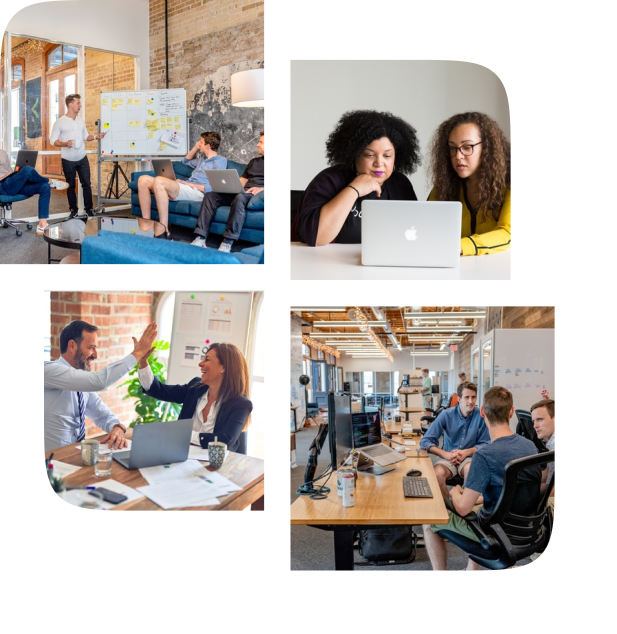
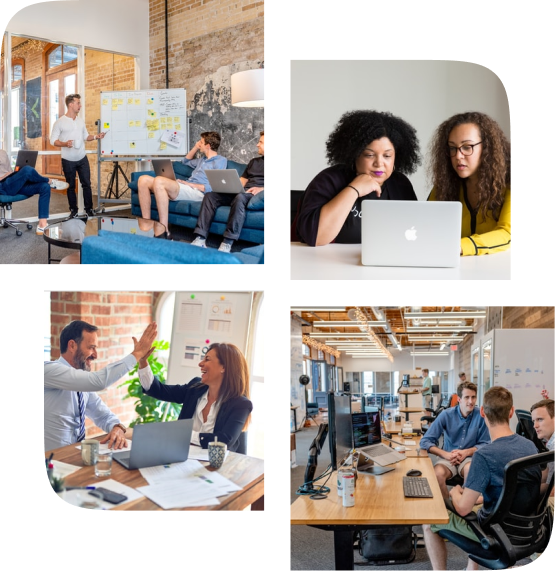
fixing

diff --git a/src/styles/css/main.min.css b/src/styles/css/main.min.css
@@ -1,1 +1,1 @@
-@import"https://fonts.googleapis.com/css2?family=Inter:wght@400;500;600;700&display=swap";*{vertical-align:baseline;font-weight:inherit;font-family:inherit;font-style:inherit;font-size:100%;border:0 none;outline:0;padding:0;margin:0;-webkit-box-sizing:border-box;box-sizing:border-box}/*! normalize.css v8.0.1 | MIT License | github.com/necolas/normalize.css */html{line-height:1.15;-webkit-text-size-adjust:100%}body{margin:0}main{display:block}h1{font-size:2em;margin:.67em 0}hr{-webkit-box-sizing:content-box;box-sizing:content-box;height:0;overflow:visible}pre{font-family:monospace,monospace;font-size:1em}a{background-color:rgba(0,0,0,0)}abbr[title]{border-bottom:none;text-decoration:underline;-webkit-text-decoration:underline dotted;text-decoration:underline dotted}b,strong{font-weight:bolder}code,kbd,samp{font-family:monospace,monospace;font-size:1em}small{font-size:80%}sub,sup{font-size:75%;line-height:0;position:relative;vertical-align:baseline}sub{bottom:-0.25em}sup{top:-0.5em}img{border-style:none}button,input,optgroup,select,textarea{font-family:inherit;font-size:100%;line-height:1.15;margin:0}button,input{overflow:visible}button,select{text-transform:none}button,[type=button],[type=reset],[type=submit]{-webkit-appearance:button}button::-moz-focus-inner,[type=button]::-moz-focus-inner,[type=reset]::-moz-focus-inner,[type=submit]::-moz-focus-inner{border-style:none;padding:0}button:-moz-focusring,[type=button]:-moz-focusring,[type=reset]:-moz-focusring,[type=submit]:-moz-focusring{outline:1px dotted ButtonText}fieldset{padding:.35em .75em .625em}legend{-webkit-box-sizing:border-box;box-sizing:border-box;color:inherit;display:table;max-width:100%;padding:0;white-space:normal}progress{vertical-align:baseline}textarea{overflow:auto}[type=checkbox],[type=radio]{-webkit-box-sizing:border-box;box-sizing:border-box;padding:0}[type=number]::-webkit-inner-spin-button,[type=number]::-webkit-outer-spin-button{height:auto}[type=search]{-webkit-appearance:textfield;outline-offset:-2px}[type=search]::-webkit-search-decoration{-webkit-appearance:none}::-webkit-file-upload-button{-webkit-appearance:button;font:inherit}details{display:block}summary{display:list-item}template{display:none}[hidden]{display:none}.main-button{background-color:#ffc93e;color:#172048;font-size:1.8rem;font-weight:500;padding:.8em 2em;border-radius:1.9em;-webkit-transition:.1s;transition:.1s}.main-button:hover{cursor:pointer;scale:1.05;-webkit-transition:.1s;transition:.1s}.main-button__icon{color:#172048;font-size:.8em;padding-left:.5em}@media(min-width: 768px){.main-button--baner{font-size:1.8vw}}.scroll-button{display:none}@media(min-width: 768px){.scroll-button{display:inline;position:relative;background-color:rgba(0,0,0,0);font-size:1.4rem;-webkit-transform:rotate(-90deg);transform:rotate(-90deg)}.scroll-button::before{position:absolute;z-index:-1;content:"";top:.1em;left:-1.4em;width:1.5rem;height:1.5rem;z-index:-1;background:url("../../assets/icons/scroll.svg") center no-repeat;background-size:contain;-webkit-transform:rotate(90deg);transform:rotate(90deg)}.scroll-button:hover{cursor:pointer;opacity:.5}}html{font-size:10px;font-family:inter;scroll-behavior:smooth}*{color:#fff}body{display:-webkit-box;display:-ms-flexbox;display:flex;-webkit-box-orient:vertical;-webkit-box-direction:normal;-ms-flex-direction:column;flex-direction:column;background-color:#0e1531}.footer{min-height:20rem}@font-face{font-family:"icomoon";src:url("../../scss/icons-font/fonts/icomoon.eot?9i6q3b");src:url("../../scss/icons-font/fonts/icomoon.eot?9i6q3b#iefix") format("embedded-opentype"),url("../../scss/icons-font/fonts/icomoon.ttf?9i6q3b") format("truetype"),url("../../scss/icons-font/fonts/icomoon.woff?9i6q3b") format("woff"),url("../../scss/icons-font/fonts/icomoon.svg?9i6q3b#icomoon") format("svg");font-weight:normal;font-style:normal;font-display:block}[class^=icon-]::before,[class*=" icon-"]::before{font-family:"icomoon" !important;font-style:normal;font-weight:normal;font-variant:normal;text-transform:none;line-height:1;-webkit-font-smoothing:antialiased;-moz-osx-font-smoothing:grayscale}.icon-drawing:before{content:""}.icon-monitor:before{content:""}.icon-pencil:before{content:""}.icon-paper:before{content:""}.icon-check-mark:before{content:""}.icon-arrow-left:before{content:""}.icon-arrow-right-up:before{content:""}.icon-chevron-right:before{content:""}.icon-dribbble:before{content:""}.icon-facebook:before{content:""}.icon-github:before{content:""}.icon-twitter:before{content:""}.icon-scroll:before{content:""}.icon-star:before{content:""}.main-container{margin:0 auto;padding:0 2.4rem;max-width:100%}@media(min-width: 768px){.main-container{max-width:114rem}}.color-shadow-1::before{position:absolute;z-index:-1;content:"";top:-100vw;left:-95vw;width:200vw;height:200vw;background:radial-gradient(circle at center, #312176 0%, transparent 40%, transparent 100%)}@media(min-width: 768px){.color-shadow-1::before{position:absolute;z-index:-1;content:"";top:-50vw;left:-45vw;width:100vw;height:100vw}.color-shadow-1::after{position:absolute;z-index:-1;content:"";top:-40%;left:10%;width:200rem;height:200rem;border-radius:50%;background:radial-gradient(circle at center, #411b61 0%, transparent 50%, transparent 100%)}.color-shadow-2::before{position:absolute;z-index:-1;content:"";top:45vw;left:-20vw;width:80rem;height:80rem;border-radius:50%;background:radial-gradient(circle at center, #182e57 0%, transparent 40%, transparent 100%)}.color-shadow-2::after{position:absolute;z-index:-1;content:"";top:35vw;left:55vw;width:100rem;height:100rem;border-radius:50%;background:radial-gradient(circle at center, #2c303e 0%, transparent 30%, transparent 100%)}}.wrapper{position:relative;min-height:330vh;overflow:hidden;background:url("../../assets/decor/ornament_sm.png") no-repeat}@media(min-width: 768px){.wrapper{background:url("../../assets/decor/ornament_lg.png") no-repeat}}.header__logo{width:7rem}@media(min-width: 768px){.header__logo{width:9.5rem}}.header__nav{display:none}@media(min-width: 768px){.header__nav{display:-webkit-box;display:-ms-flexbox;display:flex;-webkit-box-pack:justify;-ms-flex-pack:justify;justify-content:space-between;min-width:62%}.header__nav-item{text-decoration:none;font-size:1.8rem}.header__nav-item:hover{color:#ffc93e;text-shadow:#ffc93e 0 0 .5rem}.header__nav-item:active{color:#5a6378;text-shadow:none}}.header__burger .header__burger-pseudo::before,.header__burger .header__burger-label::before,.header__burger .header__burger-label::after{content:"";position:absolute;left:10%;width:80%;height:10%;background-color:#fff;-webkit-transition:.5s;transition:.5s}.header__burger .header__burger-pseudo,.header__burger .header__burger-label,.header__burger{width:2.6rem;height:2.6rem}.header__burger{position:relative}.header__burger .header__burger-checkbox{visibility:hidden}.header__burger .header__burger-checkbox:checked~.header__burger-label::after{-webkit-transform:rotate(45deg);transform:rotate(45deg);top:45%}.header__burger .header__burger-checkbox:checked~.header__burger-label::before{-webkit-transform:rotate(-45deg);transform:rotate(-45deg);top:45%}.header__burger .header__burger-checkbox:checked~.header__burger-pseudo::before{opacity:0}.header__burger .header__burger-label{position:absolute;top:0;right:0;z-index:10}.header__burger .header__burger-label::before,.header__burger .header__burger-label::after{top:70%}.header__burger .header__burger-label::after{top:20%}.header__burger .header__burger-label:hover{cursor:pointer}.header__burger .header__burger-pseudo{position:absolute;top:0;right:0;z-index:5}.header__burger .header__burger-pseudo::before{top:45%}.header{display:-webkit-box;display:-ms-flexbox;display:flex;-webkit-box-pack:justify;-ms-flex-pack:justify;justify-content:space-between;-webkit-box-align:center;-ms-flex-align:center;align-items:center;padding-top:2rem}.main-banner{text-align:center;padding-bottom:15vw}@media(min-width: 768px){.main-banner{padding-bottom:25vw}}.main-banner .main-banner__title{position:relative;left:.5em;display:inline-block;margin:.7em 0 .2em 0;font-weight:bold;font-size:17vw}@media(min-width: 768px){.main-banner .main-banner__title{font-size:10vw;left:0}}.main-banner .main-banner__title::before{position:absolute;z-index:-1;content:"";top:-0.3em;left:-1.4em;width:2em;height:2em;background:url("../../assets/decor/world_class.svg") center no-repeat;background-size:contain}.main-banner .main-banner__title::after{position:absolute;z-index:-1;content:"";top:.1em;left:-2.65em;width:8em;height:6em;background:url("../../assets/decor/line-sm.svg") center no-repeat;background-size:contain}@media(min-width: 768px){.main-banner .main-banner__title::after{position:absolute;z-index:-1;content:"";top:.1em;left:-0.94em;width:10em;height:5em;background:url("../../assets/decor/line-lg.svg") center no-repeat;background-size:contain}}.main-banner .main-banner__title2{position:relative;left:-0.7em}.main-banner .main-banner__title2::before{position:absolute;z-index:-1;content:"";top:-1.7em;left:3.6em;width:.4em;height:.4em;background:url("../../assets/decor/star_bgr.svg") center no-repeat;background-size:contain}@media(min-width: 1024px){.main-banner .main-banner__title2::before{top:-1.7em;left:5em}}.main-banner .main-banner__title2::after{position:absolute;z-index:-1;content:"";top:3.2em;left:3.3em;width:.4em;height:.4em;background:url("../../assets/decor/star_bgr.svg") center no-repeat;background-size:contain}@media(min-width: 768px){.main-banner .main-banner__title2::after{position:absolute;z-index:-1;content:"";top:-0.8em;left:-0.7em;width:.4em;height:.4em}}.main-banner .main-banner__container{display:-webkit-box;display:-ms-flexbox;display:flex;-webkit-box-orient:vertical;-webkit-box-direction:normal;-ms-flex-direction:column;flex-direction:column}.main-banner .main-banner__container .main-banner__text-container{position:relative;left:-1vw;-ms-flex-item-align:center;align-self:center;display:-webkit-box;display:-ms-flexbox;display:flex;-webkit-box-orient:vertical;-webkit-box-direction:normal;-ms-flex-direction:column;flex-direction:column;-webkit-box-align:baseline;-ms-flex-align:baseline;align-items:baseline;padding-bottom:5vw}@media(min-width: 768px){.main-banner .main-banner__container .main-banner__text-container{left:-7.5vw}}.main-banner .main-banner__container .main-banner__text-container .main-banner__subtitle{font-size:4.5vw;line-height:1.5em;font-weight:normal;width:70vw;text-align:left;margin:0 auto;padding-bottom:1em}@media(min-width: 768px){.main-banner .main-banner__container .main-banner__text-container .main-banner__subtitle{font-size:1.8vw;width:35vw}}.main-banner .main-banner__container .main-banner__figure-big{position:relative;margin:3rem auto;display:inline-block}@media(min-width: 768px){.main-banner .main-banner__container .main-banner__figure-big{position:absolute;top:23vw;right:7%}}.main-banner .main-banner__container .main-banner__figure-big .main-banner__img-big{width:85vw}@media(min-width: 768px){.main-banner .main-banner__container .main-banner__figure-big .main-banner__img-big{width:30vw}}.main-banner .main-banner__container .main-banner__figure-big .main-banner__play-video{position:absolute;right:15%;bottom:-13%;width:25vw;height:25vw;border-radius:50%;background:url(../../assets/buttons/play_video.svg) center no-repeat,-webkit-gradient(linear, left top, left bottom, color-stop(7%, #f0e9cd), to(#939498));background:url(../../assets/buttons/play_video.svg) center no-repeat,linear-gradient(to bottom, #f0e9cd 7%, #939498 100%);background-size:contain;-webkit-transition:.3s;transition:.3s}@media(min-width: 768px){.main-banner .main-banner__container .main-banner__figure-big .main-banner__play-video{width:10vw;height:10vw;bottom:-15%}}.main-banner .main-banner__container .main-banner__figure-big .main-banner__play-video:hover{cursor:pointer;-webkit-transform:scale(1.1);transform:scale(1.1);-webkit-transition:.3s;transition:.3s;-webkit-filter:brightness(1.1);filter:brightness(1.1)}.main-banner .main-banner__container .main-banner__figure-small{position:relative;display:-webkit-box;display:-ms-flexbox;display:flex}@media(min-width: 768px){.main-banner .main-banner__container .main-banner__figure-small{position:absolute;width:20vw;top:45vw;left:2%}}@media(min-width: 1024px){.main-banner .main-banner__container .main-banner__figure-small{top:42vw}}.main-banner .main-banner__container .main-banner__figure-small .main-banner__decor::before{position:absolute;z-index:-1;content:"";top:5%;left:32%;width:25vw;height:25vw;z-index:5;background:url("../../assets/decor/dots_bgr.svg") center no-repeat;background-size:contain}@media(min-width: 768px){.main-banner .main-banner__container .main-banner__figure-small .main-banner__decor::before{position:absolute;z-index:-1;content:"";top:80%;left:450%;width:12vw;height:12vw;background:url("../../assets/decor/circle_bg.png") center no-repeat;background-size:contain;opacity:.2}}.main-banner .main-banner__container .main-banner__figure-small .main-banner__decor::after{position:absolute;z-index:-1;content:"";top:70%;left:27%;width:25vw;height:25vw;z-index:-1;background:url("../../assets/decor/circle_bg.png") center no-repeat;background-size:contain}@media(min-width: 768px){.main-banner .main-banner__container .main-banner__figure-small .main-banner__decor::after{width:12vw;height:12vw;left:55%}}.main-banner .main-banner__container .main-banner__figure-small .main-banner__img-small{-ms-flex-item-align:baseline;align-self:baseline;width:45%;padding-top:4rem}@media(min-width: 768px){.main-banner .main-banner__container .main-banner__figure-small .main-banner__img-small{width:100%}}.main-banner .main-banner__container .main-banner__figure-small .main-banner__img-small::after{position:absolute;z-index:-1;content:"";top:35%;left:90%;width:25vw;height:25vw;z-index:5;background:url("../../assets/decor/circle_bg.png") center no-repeat;background-size:contain;opacity:.1}@media(min-width: 768px){.main-banner .main-banner__container .main-banner__figure-small .main-banner__img-small::after{width:15vw;height:15vw;left:320%}}.collage{-o-object-fit:contain;object-fit:contain}@media(min-width: 768px){.collage{width:50%}}.statistics-bar{-ms-flex-preferred-size:100%;flex-basis:100%}.statistics-bar__container{list-style-type:none;display:-webkit-box;display:-ms-flexbox;display:flex;-ms-flex-pack:distribute;justify-content:space-around;-webkit-box-orient:vertical;-webkit-box-direction:normal;-ms-flex-direction:column;flex-direction:column}@media(min-width: 768px){.statistics-bar__container{-webkit-box-orient:horizontal;-webkit-box-direction:normal;-ms-flex-direction:row;flex-direction:row}}.statistics-bar__container .statistics-bar__item{text-align:center;padding:3rem 0}.statistics-bar__container .statistics-bar__item .statistics-bar__item-num{font-size:4.8rem;font-weight:bold}.statistics-bar__container .statistics-bar__item .statistics-bar__item-num__item-text{font-size:2rem}.about{display:-webkit-box;display:-ms-flexbox;display:flex;-webkit-box-orient:vertical;-webkit-box-direction:normal;-ms-flex-direction:column;flex-direction:column}@media(min-width: 768px){.about{-webkit-box-orient:horizontal;-webkit-box-direction:normal;-ms-flex-direction:row;flex-direction:row;-ms-flex-wrap:wrap;flex-wrap:wrap;-webkit-box-align:center;-ms-flex-align:center;align-items:center;gap:2rem}}.about__container{width:100%;padding-bottom:2rem}@media(min-width: 768px){.about__container{width:45%}}.about__container .about__title{font-size:2.4rem;line-height:1.25em;font-weight:700;width:80%;padding-bottom:2rem}@media(min-width: 768px){.about__container .about__title{font-size:3rem}}@media(min-width: 1024px){.about__container .about__title{font-size:4.8rem}}.about__container .about__description{font-size:1.6rem;line-height:3rem;padding-bottom:2rem}
+@import"https://fonts.googleapis.com/css2?family=Inter:wght@400;500;600;700&display=swap";*{vertical-align:baseline;font-weight:inherit;font-family:inherit;font-style:inherit;font-size:100%;border:0 none;outline:0;padding:0;margin:0;-webkit-box-sizing:border-box;box-sizing:border-box}/*! normalize.css v8.0.1 | MIT License | github.com/necolas/normalize.css */html{line-height:1.15;-webkit-text-size-adjust:100%}body{margin:0}main{display:block}h1{font-size:2em;margin:.67em 0}hr{-webkit-box-sizing:content-box;box-sizing:content-box;height:0;overflow:visible}pre{font-family:monospace,monospace;font-size:1em}a{background-color:rgba(0,0,0,0)}abbr[title]{border-bottom:none;text-decoration:underline;-webkit-text-decoration:underline dotted;text-decoration:underline dotted}b,strong{font-weight:bolder}code,kbd,samp{font-family:monospace,monospace;font-size:1em}small{font-size:80%}sub,sup{font-size:75%;line-height:0;position:relative;vertical-align:baseline}sub{bottom:-0.25em}sup{top:-0.5em}img{border-style:none}button,input,optgroup,select,textarea{font-family:inherit;font-size:100%;line-height:1.15;margin:0}button,input{overflow:visible}button,select{text-transform:none}button,[type=button],[type=reset],[type=submit]{-webkit-appearance:button}button::-moz-focus-inner,[type=button]::-moz-focus-inner,[type=reset]::-moz-focus-inner,[type=submit]::-moz-focus-inner{border-style:none;padding:0}button:-moz-focusring,[type=button]:-moz-focusring,[type=reset]:-moz-focusring,[type=submit]:-moz-focusring{outline:1px dotted ButtonText}fieldset{padding:.35em .75em .625em}legend{-webkit-box-sizing:border-box;box-sizing:border-box;color:inherit;display:table;max-width:100%;padding:0;white-space:normal}progress{vertical-align:baseline}textarea{overflow:auto}[type=checkbox],[type=radio]{-webkit-box-sizing:border-box;box-sizing:border-box;padding:0}[type=number]::-webkit-inner-spin-button,[type=number]::-webkit-outer-spin-button{height:auto}[type=search]{-webkit-appearance:textfield;outline-offset:-2px}[type=search]::-webkit-search-decoration{-webkit-appearance:none}::-webkit-file-upload-button{-webkit-appearance:button;font:inherit}details{display:block}summary{display:list-item}template{display:none}[hidden]{display:none}.main-button{background-color:#ffc93e;color:#172048;font-size:1.8rem;font-weight:500;padding:.8em 2em;border-radius:1.9em;-webkit-transition:.1s;transition:.1s}.main-button:hover{cursor:pointer;scale:1.05;-webkit-transition:.1s;transition:.1s}.main-button__icon{color:#172048;font-size:.8em;padding-left:.5em}@media(min-width: 768px){.main-button--baner{font-size:1.8vw}}.scroll-button{display:none}@media(min-width: 768px){.scroll-button{display:inline;position:relative;background-color:rgba(0,0,0,0);font-size:1.4rem;-webkit-transform:rotate(-90deg);transform:rotate(-90deg)}.scroll-button::before{position:absolute;z-index:-1;content:"";top:.1em;left:-1.4em;width:1.5rem;height:1.5rem;z-index:-1;background:url("../../assets/icons/scroll.svg") center no-repeat;background-size:contain;-webkit-transform:rotate(90deg);transform:rotate(90deg)}.scroll-button:hover{cursor:pointer;opacity:.5}}html{font-size:10px;font-family:inter;scroll-behavior:smooth}*{color:#fff}body{display:-webkit-box;display:-ms-flexbox;display:flex;-webkit-box-orient:vertical;-webkit-box-direction:normal;-ms-flex-direction:column;flex-direction:column;background-color:#0e1531}.footer{min-height:20rem}@font-face{font-family:"icomoon";src:url("../../scss/icons-font/fonts/icomoon.eot?9i6q3b");src:url("../../scss/icons-font/fonts/icomoon.eot?9i6q3b#iefix") format("embedded-opentype"),url("../../scss/icons-font/fonts/icomoon.ttf?9i6q3b") format("truetype"),url("../../scss/icons-font/fonts/icomoon.woff?9i6q3b") format("woff"),url("../../scss/icons-font/fonts/icomoon.svg?9i6q3b#icomoon") format("svg");font-weight:normal;font-style:normal;font-display:block}[class^=icon-]::before,[class*=" icon-"]::before{font-family:"icomoon" !important;font-style:normal;font-weight:normal;font-variant:normal;text-transform:none;line-height:1;-webkit-font-smoothing:antialiased;-moz-osx-font-smoothing:grayscale}.icon-drawing:before{content:""}.icon-monitor:before{content:""}.icon-pencil:before{content:""}.icon-paper:before{content:""}.icon-check-mark:before{content:""}.icon-arrow-left:before{content:""}.icon-arrow-right-up:before{content:""}.icon-chevron-right:before{content:""}.icon-dribbble:before{content:""}.icon-facebook:before{content:""}.icon-github:before{content:""}.icon-twitter:before{content:""}.icon-scroll:before{content:""}.icon-star:before{content:""}.main-container{margin:0 auto;padding:0 2.4rem;max-width:100%}@media(min-width: 768px){.main-container{max-width:114rem}}.color-shadow-1::before{position:absolute;z-index:-1;content:"";top:-100vw;left:-95vw;width:200vw;height:200vw;background:radial-gradient(circle at center, #312176 0%, transparent 40%, transparent 100%)}@media(min-width: 768px){.color-shadow-1::before{position:absolute;z-index:-1;content:"";top:-50vw;left:-45vw;width:100vw;height:100vw}.color-shadow-1::after{position:absolute;z-index:-1;content:"";top:-40%;left:10%;width:200rem;height:200rem;border-radius:50%;background:radial-gradient(circle at center, #411b61 0%, transparent 50%, transparent 100%)}.color-shadow-2::before{position:absolute;z-index:-1;content:"";top:45vw;left:-20vw;width:80rem;height:80rem;border-radius:50%;background:radial-gradient(circle at center, #182e57 0%, transparent 40%, transparent 100%)}.color-shadow-2::after{position:absolute;z-index:-1;content:"";top:35vw;left:55vw;width:100rem;height:100rem;border-radius:50%;background:radial-gradient(circle at center, #2c303e 0%, transparent 30%, transparent 100%)}}.wrapper{position:relative;min-height:330vh;overflow:hidden;background:url("../../assets/decor/ornament_sm.png") no-repeat}@media(min-width: 768px){.wrapper{background:url("../../assets/decor/ornament_lg.png") no-repeat}}.header__logo{width:7rem}@media(min-width: 768px){.header__logo{width:9.5rem}}.header__nav{display:none}@media(min-width: 768px){.header__nav{display:-webkit-box;display:-ms-flexbox;display:flex;-webkit-box-pack:justify;-ms-flex-pack:justify;justify-content:space-between;min-width:62%}.header__nav-item{text-decoration:none;font-size:1.8rem}.header__nav-item:hover{color:#ffc93e;text-shadow:#ffc93e 0 0 .5rem}.header__nav-item:active{color:#5a6378;text-shadow:none}}.header__burger .header__burger-pseudo::before,.header__burger .header__burger-label::before,.header__burger .header__burger-label::after{content:"";position:absolute;left:10%;width:80%;height:10%;background-color:#fff;-webkit-transition:.5s;transition:.5s}.header__burger .header__burger-pseudo,.header__burger .header__burger-label,.header__burger{width:2.6rem;height:2.6rem}.header__burger{position:relative}.header__burger .header__burger-checkbox{visibility:hidden}.header__burger .header__burger-checkbox:checked~.header__burger-label::after{-webkit-transform:rotate(45deg);transform:rotate(45deg);top:45%}.header__burger .header__burger-checkbox:checked~.header__burger-label::before{-webkit-transform:rotate(-45deg);transform:rotate(-45deg);top:45%}.header__burger .header__burger-checkbox:checked~.header__burger-pseudo::before{opacity:0}.header__burger .header__burger-label{position:absolute;top:0;right:0;z-index:10}.header__burger .header__burger-label::before,.header__burger .header__burger-label::after{top:70%}.header__burger .header__burger-label::after{top:20%}.header__burger .header__burger-label:hover{cursor:pointer}.header__burger .header__burger-pseudo{position:absolute;top:0;right:0;z-index:5}.header__burger .header__burger-pseudo::before{top:45%}.header{display:-webkit-box;display:-ms-flexbox;display:flex;-webkit-box-pack:justify;-ms-flex-pack:justify;justify-content:space-between;-webkit-box-align:center;-ms-flex-align:center;align-items:center;padding-top:2rem}.main-banner{text-align:center;padding-bottom:15vw}@media(min-width: 768px){.main-banner{padding-bottom:25vw}}.main-banner .main-banner__title{position:relative;left:.5em;display:inline-block;margin:.7em 0 .2em 0;font-weight:bold;font-size:17vw}@media(min-width: 768px){.main-banner .main-banner__title{font-size:10vw;left:0}}.main-banner .main-banner__title::before{position:absolute;z-index:-1;content:"";top:-0.3em;left:-1.4em;width:2em;height:2em;background:url("../../assets/decor/world_class.svg") center no-repeat;background-size:contain}.main-banner .main-banner__title::after{position:absolute;z-index:-1;content:"";top:.1em;left:-2.65em;width:8em;height:6em;background:url("../../assets/decor/line-sm.svg") center no-repeat;background-size:contain}@media(min-width: 768px){.main-banner .main-banner__title::after{position:absolute;z-index:-1;content:"";top:.1em;left:-0.94em;width:10em;height:5em;background:url("../../assets/decor/line-lg.svg") center no-repeat;background-size:contain}}.main-banner .main-banner__title2{position:relative;left:-0.7em}.main-banner .main-banner__title2::before{position:absolute;z-index:-1;content:"";top:-1.7em;left:3.6em;width:.4em;height:.4em;background:url("../../assets/decor/star_bgr.svg") center no-repeat;background-size:contain}@media(min-width: 1024px){.main-banner .main-banner__title2::before{top:-1.7em;left:5em}}.main-banner .main-banner__title2::after{position:absolute;z-index:-1;content:"";top:3.2em;left:3.3em;width:.4em;height:.4em;background:url("../../assets/decor/star_bgr.svg") center no-repeat;background-size:contain}@media(min-width: 768px){.main-banner .main-banner__title2::after{position:absolute;z-index:-1;content:"";top:-0.8em;left:-0.7em;width:.4em;height:.4em}}.main-banner .main-banner__container{display:-webkit-box;display:-ms-flexbox;display:flex;-webkit-box-orient:vertical;-webkit-box-direction:normal;-ms-flex-direction:column;flex-direction:column}.main-banner .main-banner__container .main-banner__text-container{position:relative;left:-1vw;-ms-flex-item-align:center;align-self:center;display:-webkit-box;display:-ms-flexbox;display:flex;-webkit-box-orient:vertical;-webkit-box-direction:normal;-ms-flex-direction:column;flex-direction:column;-webkit-box-align:baseline;-ms-flex-align:baseline;align-items:baseline;padding-bottom:5vw}@media(min-width: 768px){.main-banner .main-banner__container .main-banner__text-container{left:-7.5vw}}.main-banner .main-banner__container .main-banner__text-container .main-banner__subtitle{font-size:4.5vw;line-height:1.5em;font-weight:normal;width:70vw;text-align:left;margin:0 auto;padding-bottom:1em}@media(min-width: 768px){.main-banner .main-banner__container .main-banner__text-container .main-banner__subtitle{font-size:1.8vw;width:35vw}}.main-banner .main-banner__container .main-banner__figure-big{position:relative;margin:3rem auto;display:inline-block}@media(min-width: 768px){.main-banner .main-banner__container .main-banner__figure-big{position:absolute;top:23vw;right:7%}}.main-banner .main-banner__container .main-banner__figure-big .main-banner__img-big{width:85vw}@media(min-width: 768px){.main-banner .main-banner__container .main-banner__figure-big .main-banner__img-big{width:30vw}}.main-banner .main-banner__container .main-banner__figure-big .main-banner__play-video{position:absolute;right:15%;bottom:-13%;width:25vw;height:25vw;border-radius:50%;background:url(../../assets/buttons/play_video.svg) center no-repeat,-webkit-gradient(linear, left top, left bottom, color-stop(7%, #f0e9cd), to(#939498));background:url(../../assets/buttons/play_video.svg) center no-repeat,linear-gradient(to bottom, #f0e9cd 7%, #939498 100%);background-size:contain;-webkit-transition:.3s;transition:.3s}@media(min-width: 768px){.main-banner .main-banner__container .main-banner__figure-big .main-banner__play-video{width:10vw;height:10vw;bottom:-15%}}.main-banner .main-banner__container .main-banner__figure-big .main-banner__play-video:hover{cursor:pointer;-webkit-transform:scale(1.1);transform:scale(1.1);-webkit-transition:.3s;transition:.3s;-webkit-filter:brightness(1.1);filter:brightness(1.1)}.main-banner .main-banner__container .main-banner__figure-small{position:relative;display:-webkit-box;display:-ms-flexbox;display:flex}@media(min-width: 768px){.main-banner .main-banner__container .main-banner__figure-small{position:absolute;width:20vw;top:45vw;left:2%}}@media(min-width: 1024px){.main-banner .main-banner__container .main-banner__figure-small{top:42vw}}.main-banner .main-banner__container .main-banner__figure-small .main-banner__decor::before{position:absolute;z-index:-1;content:"";top:5%;left:32%;width:25vw;height:25vw;z-index:5;background:url("../../assets/decor/dots_bgr.svg") center no-repeat;background-size:contain}@media(min-width: 768px){.main-banner .main-banner__container .main-banner__figure-small .main-banner__decor::before{position:absolute;z-index:-1;content:"";top:80%;left:450%;width:12vw;height:12vw;background:url("../../assets/decor/circle_bg.png") center no-repeat;background-size:contain;opacity:.2}}.main-banner .main-banner__container .main-banner__figure-small .main-banner__decor::after{position:absolute;z-index:-1;content:"";top:70%;left:27%;width:25vw;height:25vw;z-index:-1;background:url("../../assets/decor/circle_bg.png") center no-repeat;background-size:contain}@media(min-width: 768px){.main-banner .main-banner__container .main-banner__figure-small .main-banner__decor::after{width:12vw;height:12vw;left:55%}}.main-banner .main-banner__container .main-banner__figure-small .main-banner__img-small{-ms-flex-item-align:baseline;align-self:baseline;width:45%;padding-top:4rem}@media(min-width: 768px){.main-banner .main-banner__container .main-banner__figure-small .main-banner__img-small{width:100%}}.main-banner .main-banner__container .main-banner__figure-small .main-banner__img-small::after{position:absolute;z-index:-1;content:"";top:35%;left:90%;width:25vw;height:25vw;z-index:5;background:url("../../assets/decor/circle_bg.png") center no-repeat;background-size:contain;opacity:.1}@media(min-width: 768px){.main-banner .main-banner__container .main-banner__figure-small .main-banner__img-small::after{width:15vw;height:15vw;left:320%}}.collage{position:relative;width:90%}@media(min-width: 768px){.collage{width:50%}}.collage__img{width:100%;-o-object-fit:contain;object-fit:contain}.collage::after{position:absolute;z-index:-1;content:"";top:80%;left:80%;width:30%;height:30%;z-index:-1;background:url("../../assets/decor/circle_bg.png") center no-repeat;background-size:contain}.statistics-bar{-ms-flex-preferred-size:100%;flex-basis:100%;padding:3rem 0}.statistics-bar__container{list-style-type:none;display:-webkit-box;display:-ms-flexbox;display:flex;-ms-flex-pack:distribute;justify-content:space-around;-webkit-box-orient:vertical;-webkit-box-direction:normal;-ms-flex-direction:column;flex-direction:column}@media(min-width: 768px){.statistics-bar__container{-webkit-box-orient:horizontal;-webkit-box-direction:normal;-ms-flex-direction:row;flex-direction:row}}.statistics-bar__container .statistics-bar__item{text-align:center;padding:3rem 0}.statistics-bar__container .statistics-bar__item .statistics-bar__item-num{font-size:4.8rem;font-weight:bold}.statistics-bar__container .statistics-bar__item .statistics-bar__item-num__item-text{font-size:2rem}.about{display:-webkit-box;display:-ms-flexbox;display:flex;-webkit-box-orient:vertical;-webkit-box-direction:normal;-ms-flex-direction:column;flex-direction:column}@media(min-width: 768px){.about{-webkit-box-orient:horizontal;-webkit-box-direction:normal;-ms-flex-direction:row;flex-direction:row;-ms-flex-wrap:wrap;flex-wrap:wrap;-webkit-box-pack:justify;-ms-flex-pack:justify;justify-content:space-between;-webkit-box-align:center;-ms-flex-align:center;align-items:center;gap:2rem}}.about__container{width:100%;padding-bottom:2rem}@media(min-width: 768px){.about__container{width:47%}}.about__container .about__title{font-size:2.4rem;line-height:1.25em;font-weight:700;width:80%;padding-bottom:2rem}@media(min-width: 768px){.about__container .about__title{font-size:3rem}}@media(min-width: 1024px){.about__container .about__title{font-size:4.8rem}}.about__container .about__description{font-size:1.6rem;line-height:3rem;padding-bottom:2rem}

diff --git a/src/styles/css/main.css b/src/styles/css/main.css
@@ -968,18 +968,36 @@ body {
 }
 
 .collage {
-  -o-object-fit: contain;
-     object-fit: contain;
+  position: relative;
+  width: 90%;
 }
 @media (min-width: 768px) {
   .collage {
     width: 50%;
   }
 }
+.collage__img {
+  width: 100%;
+  -o-object-fit: contain;
+     object-fit: contain;
+}
+.collage::after {
+  position: absolute;
+  z-index: -1;
+  content: "";
+  top: 80%;
+  left: 80%;
+  width: 30%;
+  height: 30%;
+  z-index: -1;
+  background: url("../../assets/decor/circle_bg.png") center no-repeat;
+  background-size: contain;
+}
 
 .statistics-bar {
   -ms-flex-preferred-size: 100%;
       flex-basis: 100%;
+  padding: 3rem 0;
 }
 .statistics-bar__container {
   list-style-type: none;
@@ -1030,6 +1048,9 @@ body {
             flex-direction: row;
     -ms-flex-wrap: wrap;
         flex-wrap: wrap;
+    -webkit-box-pack: justify;
+        -ms-flex-pack: justify;
+            justify-content: space-between;
     -webkit-box-align: center;
         -ms-flex-align: center;
             align-items: center;
@@ -1042,7 +1063,7 @@ body {
 }
 @media (min-width: 768px) {
   .about__container {
-    width: 45%;
+    width: 47%;
   }
 }
 .about__container .about__title {

diff --git a/public/index.html b/public/index.html
@@ -77,10 +77,9 @@
 						<span class="main-button__icon icon-arrow-right-up"></span>
 					</button>
 				</div>
-				<!-- <figure class="collage">
-					<div class="collage__img"></div>
-				</figure> -->
-				<img class="collage" src="../src/assets/collage/collage_lg.png" alt="" >
+				<figure class="collage">
+					<img class="collage__img" src="../src/assets/collage/collage_lg.png" alt="" >
+				</figure>
 				<aside class="statistics-bar">
 					<ul class="statistics-bar__container">
 						<li class="statistics-bar__item">

diff --git a/src/scss/components/about/_collage.scss b/src/scss/components/about/_collage.scss
@@ -1,6 +1,20 @@
 .collage {
-	object-fit: contain;
-	@media (min-width: $point1) {
-		width: 50%;
-	}
+    position: relative;
+    width: 90%;
+
+    @media (min-width: $point1) {
+        width: 50%;
+    }
+    
+    &__img {
+        width: 100%;
+        object-fit: contain;
+    }
+
+    &::after {
+        @include position-style(80%, 80%, 30%, 30%);
+        z-index: -1;
+        background: url("../../assets/decor/circle_bg.png") center no-repeat;
+        background-size: contain;
+    }
 }

diff --git a/src/scss/components/about/_about.scss b/src/scss/components/about/_about.scss
@@ -8,6 +8,7 @@
 	@media (min-width: $point1) {
 		flex-direction: row;
 		flex-wrap: wrap;
+		justify-content: space-between;
 		align-items: center;
 		gap: 2rem;
 	}
@@ -17,7 +18,7 @@
 		padding-bottom: 2rem;
 
 		@media (min-width: $point1) {
-			width: 45%;
+			width: 47%;
 		}
 
 		.about__title {

diff --git a/src/scss/components/about/_statistics-bar.scss b/src/scss/components/about/_statistics-bar.scss
@@ -1,5 +1,6 @@
 .statistics-bar {
     flex-basis: 100%;
+    padding:3rem 0;
     
     &__container {
         list-style-type: none;
